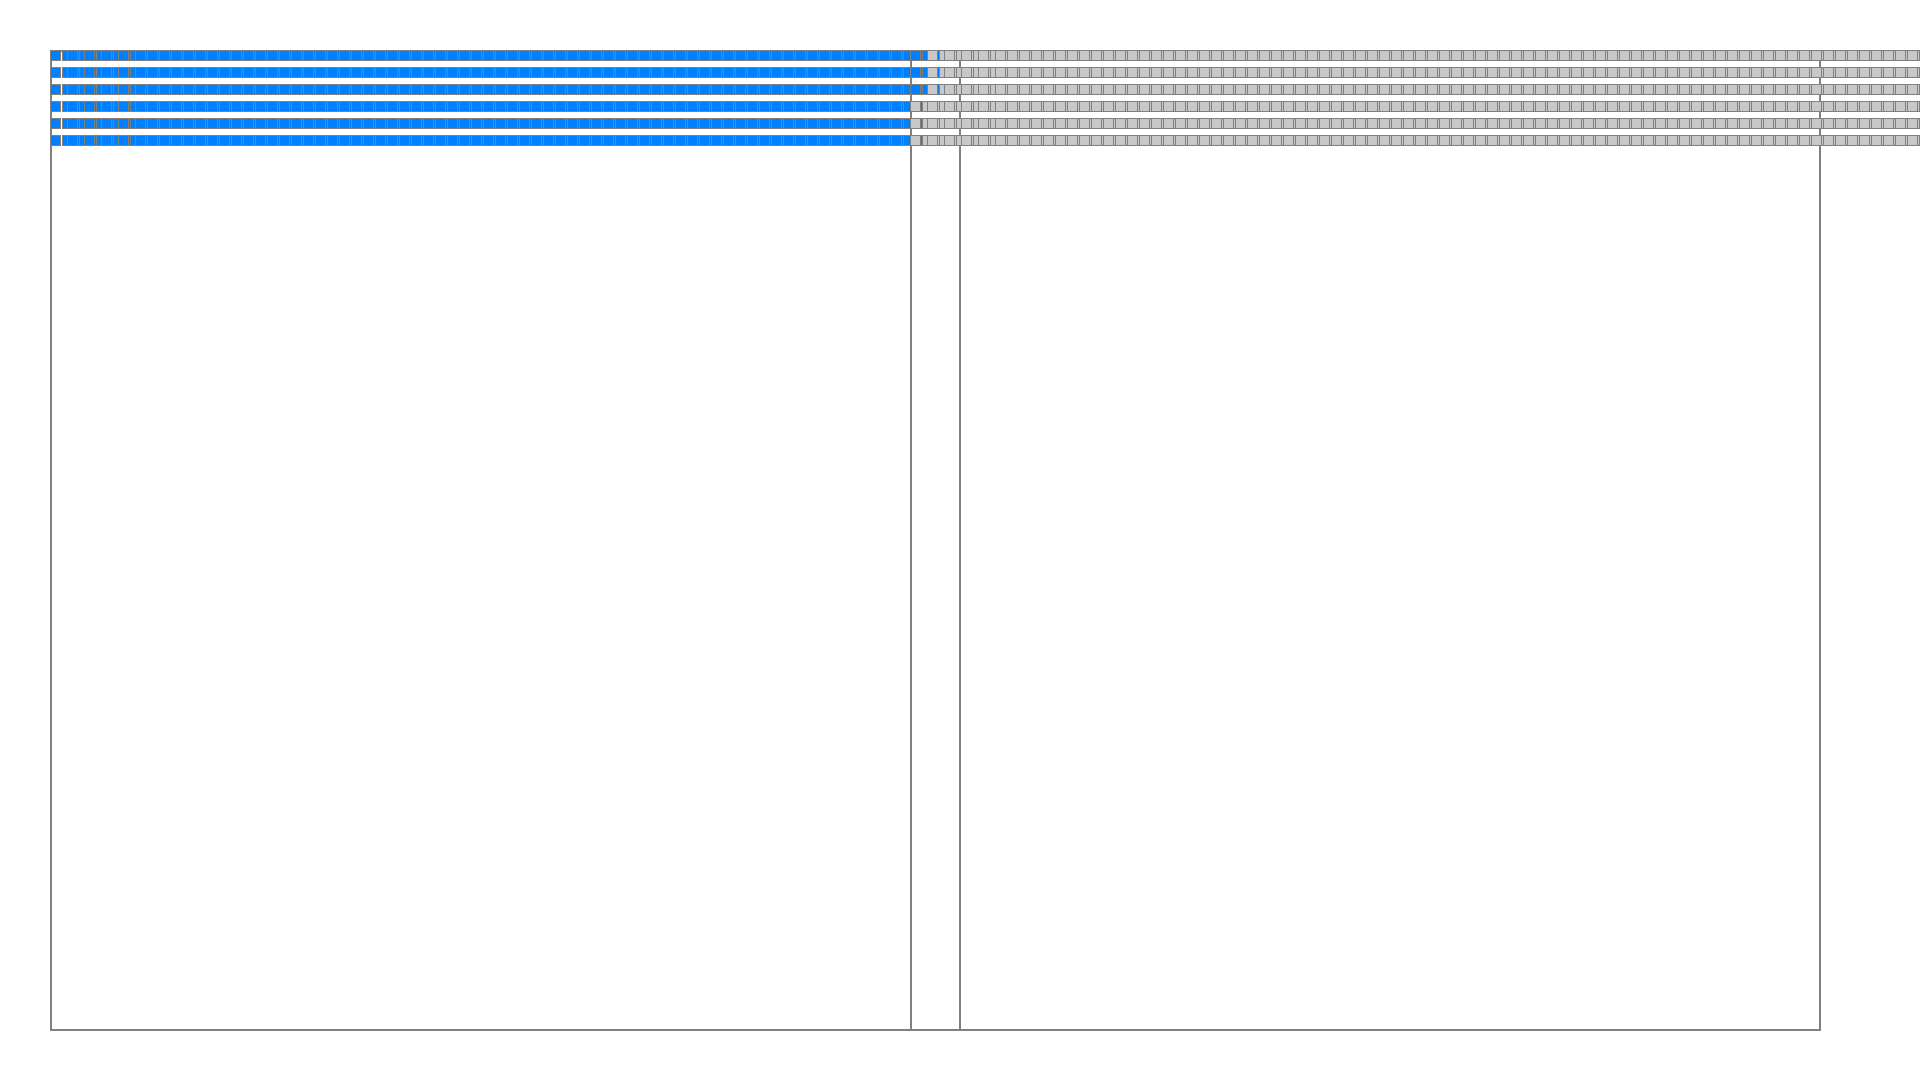
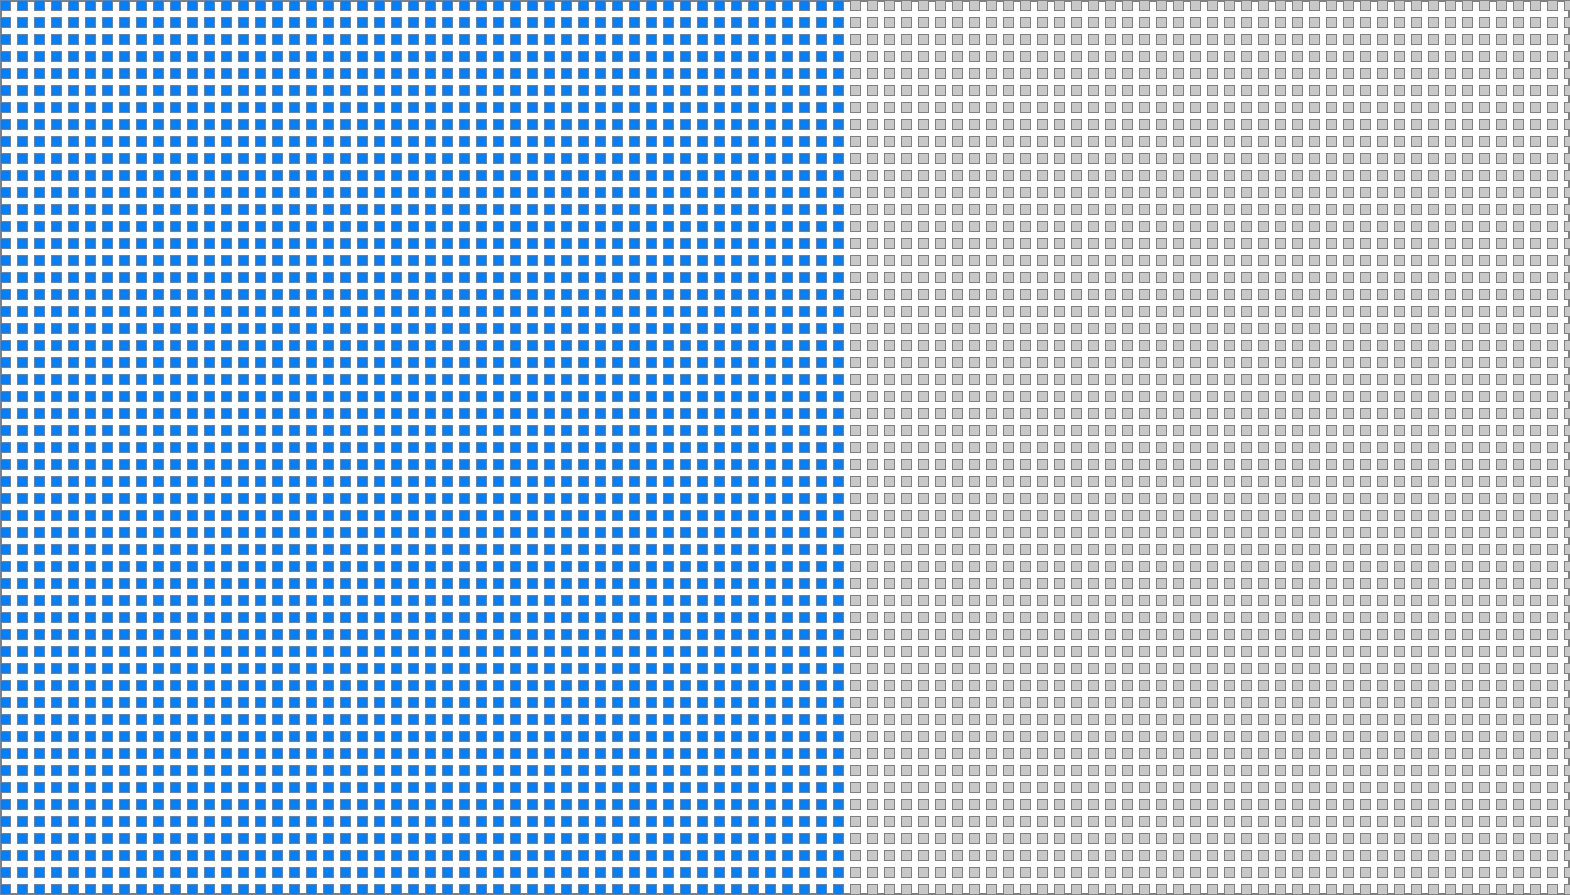
safe point (got the boxes to hightlight and unhighlight but cant see all the boxes)

diff --git a/live_wallpaper.py b/live_wallpaper.py
@@ -4,9 +4,9 @@ from PIL import Image, ImageDraw
 import ctypes
 
 # Constants
-NUM_COLUMNS = 6
-NUM_ROWS = 6
-BOXES_PER_ROW = 6345 // (NUM_COLUMNS * NUM_ROWS)  # 6,345 boxes divided into 6 columns and 6 rows
+NUM_COLUMNS = 105
+NUM_ROWS = 60
+BOXES_PER_ROW = 6345 // (NUM_COLUMNS * NUM_ROWS)  # 6,345 boxes divided into columns and rows
 GRID_SIZE = (NUM_COLUMNS, NUM_ROWS)
 BOX_SIZE = 10  # Adjust box size to fit more boxes
 MARGIN = 2  # Adjust margin to fit more boxes
@@ -16,62 +16,41 @@ WALLPAPER_PATH = 'wallpaper.png'
 
 def generate_grid_image(days_passed):
     # Calculate the width and height of the wallpaper
-    img_width = 1920
-    img_height = 1080
+    img_width = (NUM_COLUMNS * BOX_SIZE + (NUM_COLUMNS - 1) * COLUMN_MARGIN)
+    img_height = (NUM_ROWS * BOX_SIZE + (NUM_ROWS - 1) * ROW_MARGIN)
+    print(f"Image dimensions: {img_width}x{img_height}")
+
+    # Calculate the rectangle dimensions
+    rect_width = img_width
+    rect_height = img_height
+    rect_x1 = 0
+    rect_y1 = 0
+    rect_x2 = rect_width - 1
+    rect_y2 = rect_height - 1
+    print(f"Rectangle coordinates: ({rect_x1}, {rect_y1}) - ({rect_x2}, {rect_y2})")
+
     image = Image.new('RGB', (img_width, img_height), color='white')
     draw = ImageDraw.Draw(image)
 
-    # Calculate the dimensions of the left and right rectangles
-    rect_width = (img_width // 2) - 50
-    rect_height = img_height - 100
-    left_rect_x1 = 50
-    left_rect_y1 = 50
-    left_rect_x2 = left_rect_x1 + rect_width
-    left_rect_y2 = left_rect_y1 + rect_height
-    right_rect_x1 = img_width - left_rect_x2 - 50
-    right_rect_y1 = 50
-    right_rect_x2 = right_rect_x1 + rect_width
-    right_rect_y2 = right_rect_y1 + rect_height
+    # Draw the full-screen rectangle
+    draw.rectangle([rect_x1, rect_y1, rect_x2, rect_y2], outline=(128, 128, 128), width=2)
 
-    # Draw the left rectangle
-    draw.rectangle([left_rect_x1, left_rect_y1, left_rect_x2, left_rect_y2], outline=(128, 128, 128), width=2)
-
-    # Draw the right rectangle
-    draw.rectangle([right_rect_x1, right_rect_y1, right_rect_x2, right_rect_y2], outline=(128, 128, 128), width=2)
-
-    # Draw the checklist boxes in the left rectangle
+    # Draw the checklist boxes inside the rectangle
     for col in range(NUM_COLUMNS):
-        col_offset = left_rect_x1 + col * (BOX_SIZE + MARGIN + COLUMN_MARGIN)
+        col_offset = col * (BOX_SIZE + MARGIN + COLUMN_MARGIN)
         for row in range(NUM_ROWS):
-            row_offset = left_rect_y1 + row * (BOX_SIZE + MARGIN + ROW_MARGIN)
-            box_number = col * (NUM_ROWS * BOXES_PER_ROW) + row * BOXES_PER_ROW
+            row_offset = row * (BOX_SIZE + MARGIN + ROW_MARGIN)
             for i in range(BOXES_PER_ROW):
+                box_number = col * (NUM_ROWS * BOXES_PER_ROW) + row * BOXES_PER_ROW + i
                 if box_number < days_passed:
                     color = (0, 128, 255)  # Checked box color (blue)
                 else:
                     color = (200, 200, 200)  # Unchecked box color (light gray)
                 top_left = (col_offset + i * (BOX_SIZE + MARGIN), row_offset)
                 bottom_right = (top_left[0] + BOX_SIZE, top_left[1] + BOX_SIZE)
+                print(f"Box {box_number}: ({top_left[0]}, {top_left[1]}) - ({bottom_right[0]}, {bottom_right[1]})")
                 draw.rectangle([top_left, bottom_right], fill=color)
                 draw.rectangle([top_left, bottom_right], outline=(128, 128, 128), width=1)  # Add gridlines
-                box_number += 1
-
-    # Draw the checklist boxes in the right rectangle
-    for col in range(NUM_COLUMNS):
-        col_offset = right_rect_x1 + col * (BOX_SIZE + MARGIN + COLUMN_MARGIN)
-        for row in range(NUM_ROWS):
-            row_offset = right_rect_y1 + row * (BOX_SIZE + MARGIN + ROW_MARGIN)
-            box_number = (col + NUM_COLUMNS) * (NUM_ROWS * BOXES_PER_ROW) + row * BOXES_PER_ROW
-            for i in range(BOXES_PER_ROW):
-                if box_number < days_passed:
-                    color = (0, 128, 255)  # Checked box color (blue)
-                else:
-                    color = (200, 200, 200)  # Unchecked box color (light gray)
-                top_left = (col_offset + i * (BOX_SIZE + MARGIN), row_offset)
-                bottom_right = (top_left[0] + BOX_SIZE, top_left[1] + BOX_SIZE)
-                draw.rectangle([top_left, bottom_right], fill=color)
-                draw.rectangle([top_left, bottom_right], outline=(128, 128, 128), width=1)  # Add gridlines
-                box_number += 1
 
     image.save(WALLPAPER_PATH)
 
@@ -81,7 +60,7 @@ def set_wallpaper():
 def update_wallpaper():
     birth_date = datetime.date(2006, 1, 11)
     today = datetime.date.today()
-    days_passed = (today - birth_date).days
+    days_passed = 3000  # Use 3000 instead of 6340
     generate_grid_image(days_passed)
     set_wallpaper()
 
